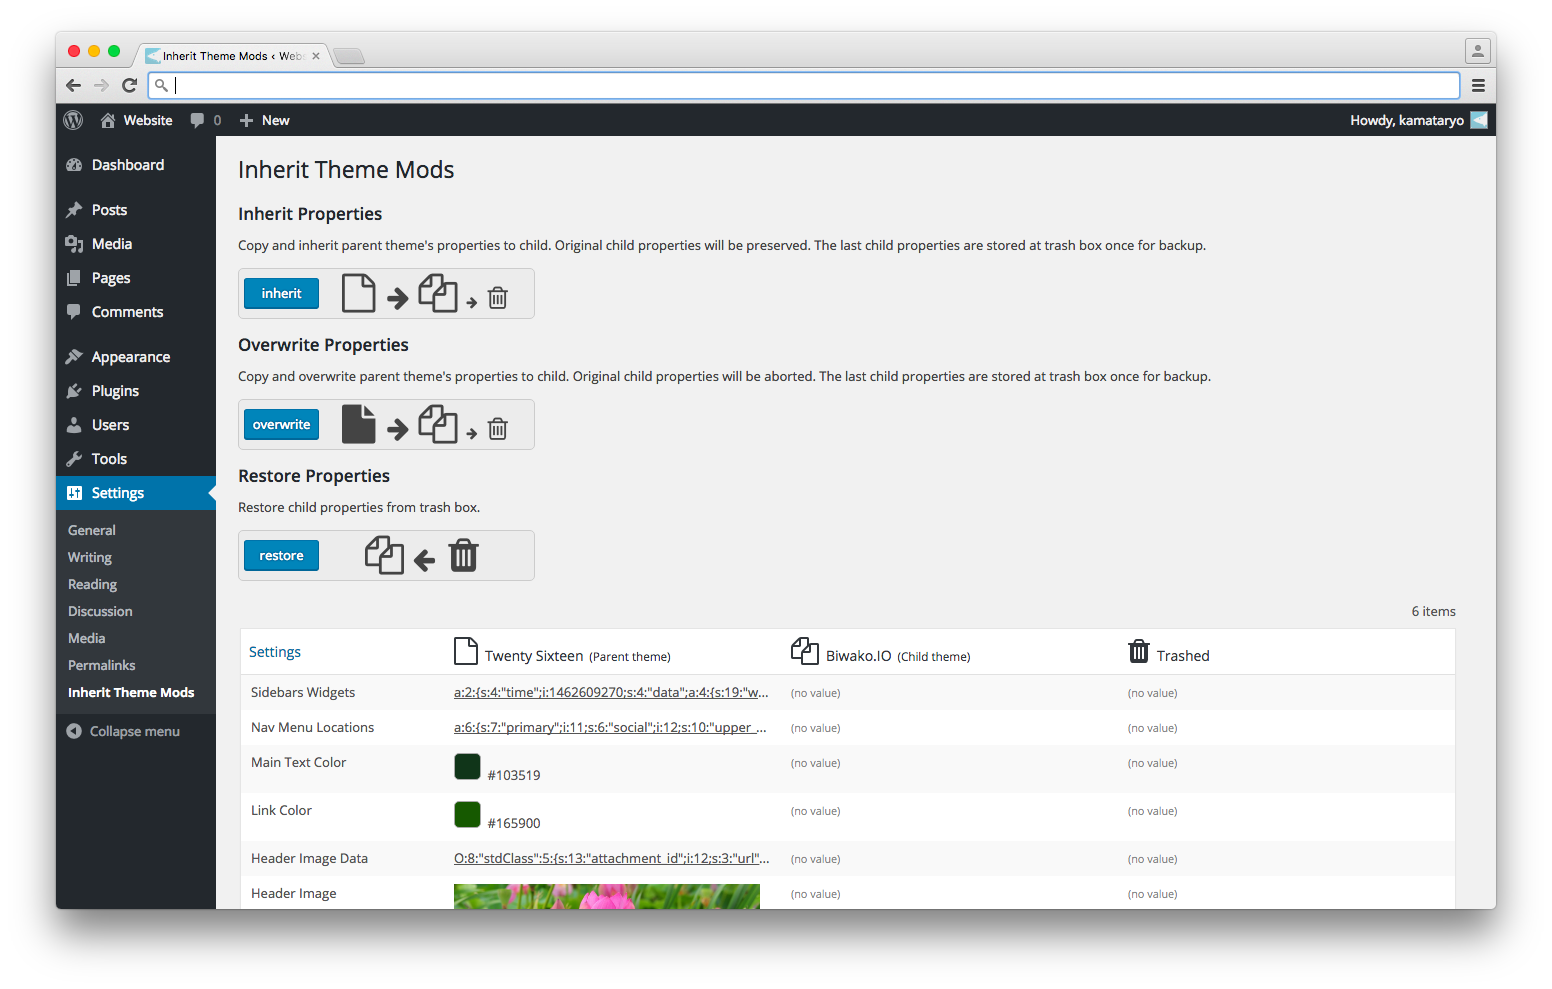
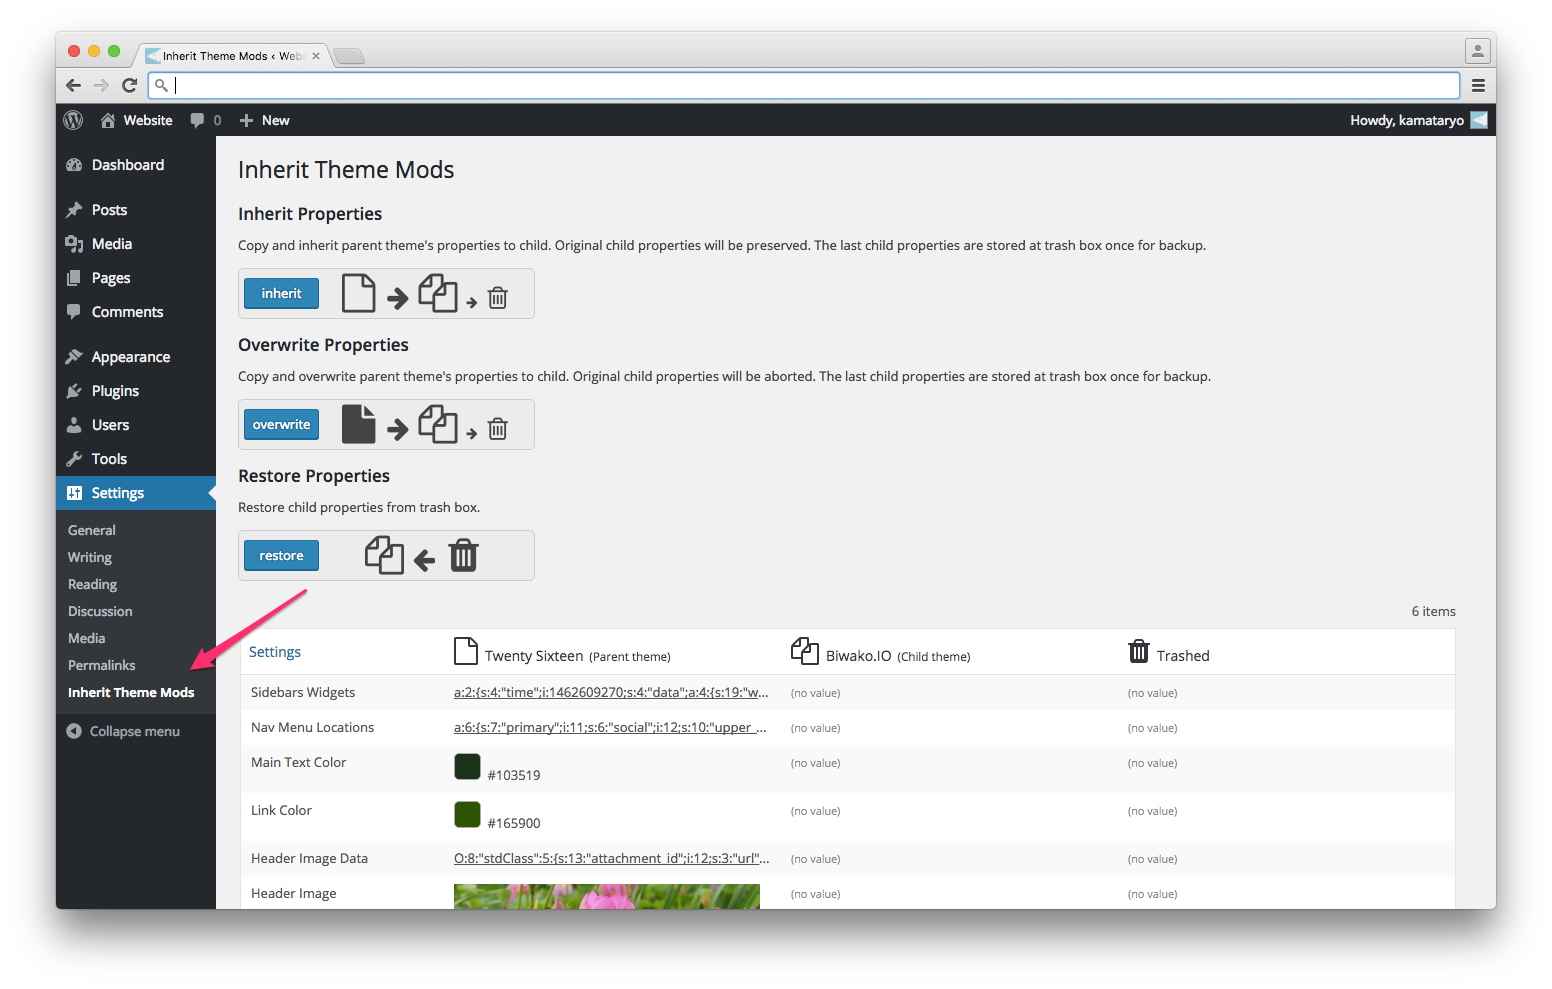
Update readme

diff --git a/README.md b/README.md
@@ -1,0 +1,19 @@
+# Inherit theme mods
+
+[![Build Status](https://travis-ci.org/KamataRyo/inherit-theme-mods.svg?branch=master)](https://travis-ci.org/KamataRyo/inherit-theme-mods)
+
+WordPress plugin 'Inherit Theme Mods' enable to copy child theme properties from those of parent.
+
+License: GPLv2 or later
+License URI: http://www.gnu.org/licenses/gpl-2.0.html
+
+## screenshots
+
+- you can see 'Inherit Theme Mods' in 'settigns' menu
+![menu position](assets/screenshot-1.png)
+
+- inherit or overwrite parental property to that of child.
+![menu position](assets/screenshot-2.png)
+
+- You can use 'Inherit Theme Mods' as simple inspector for theme properties.
+![menu position](assets/screenshot-3.png)
